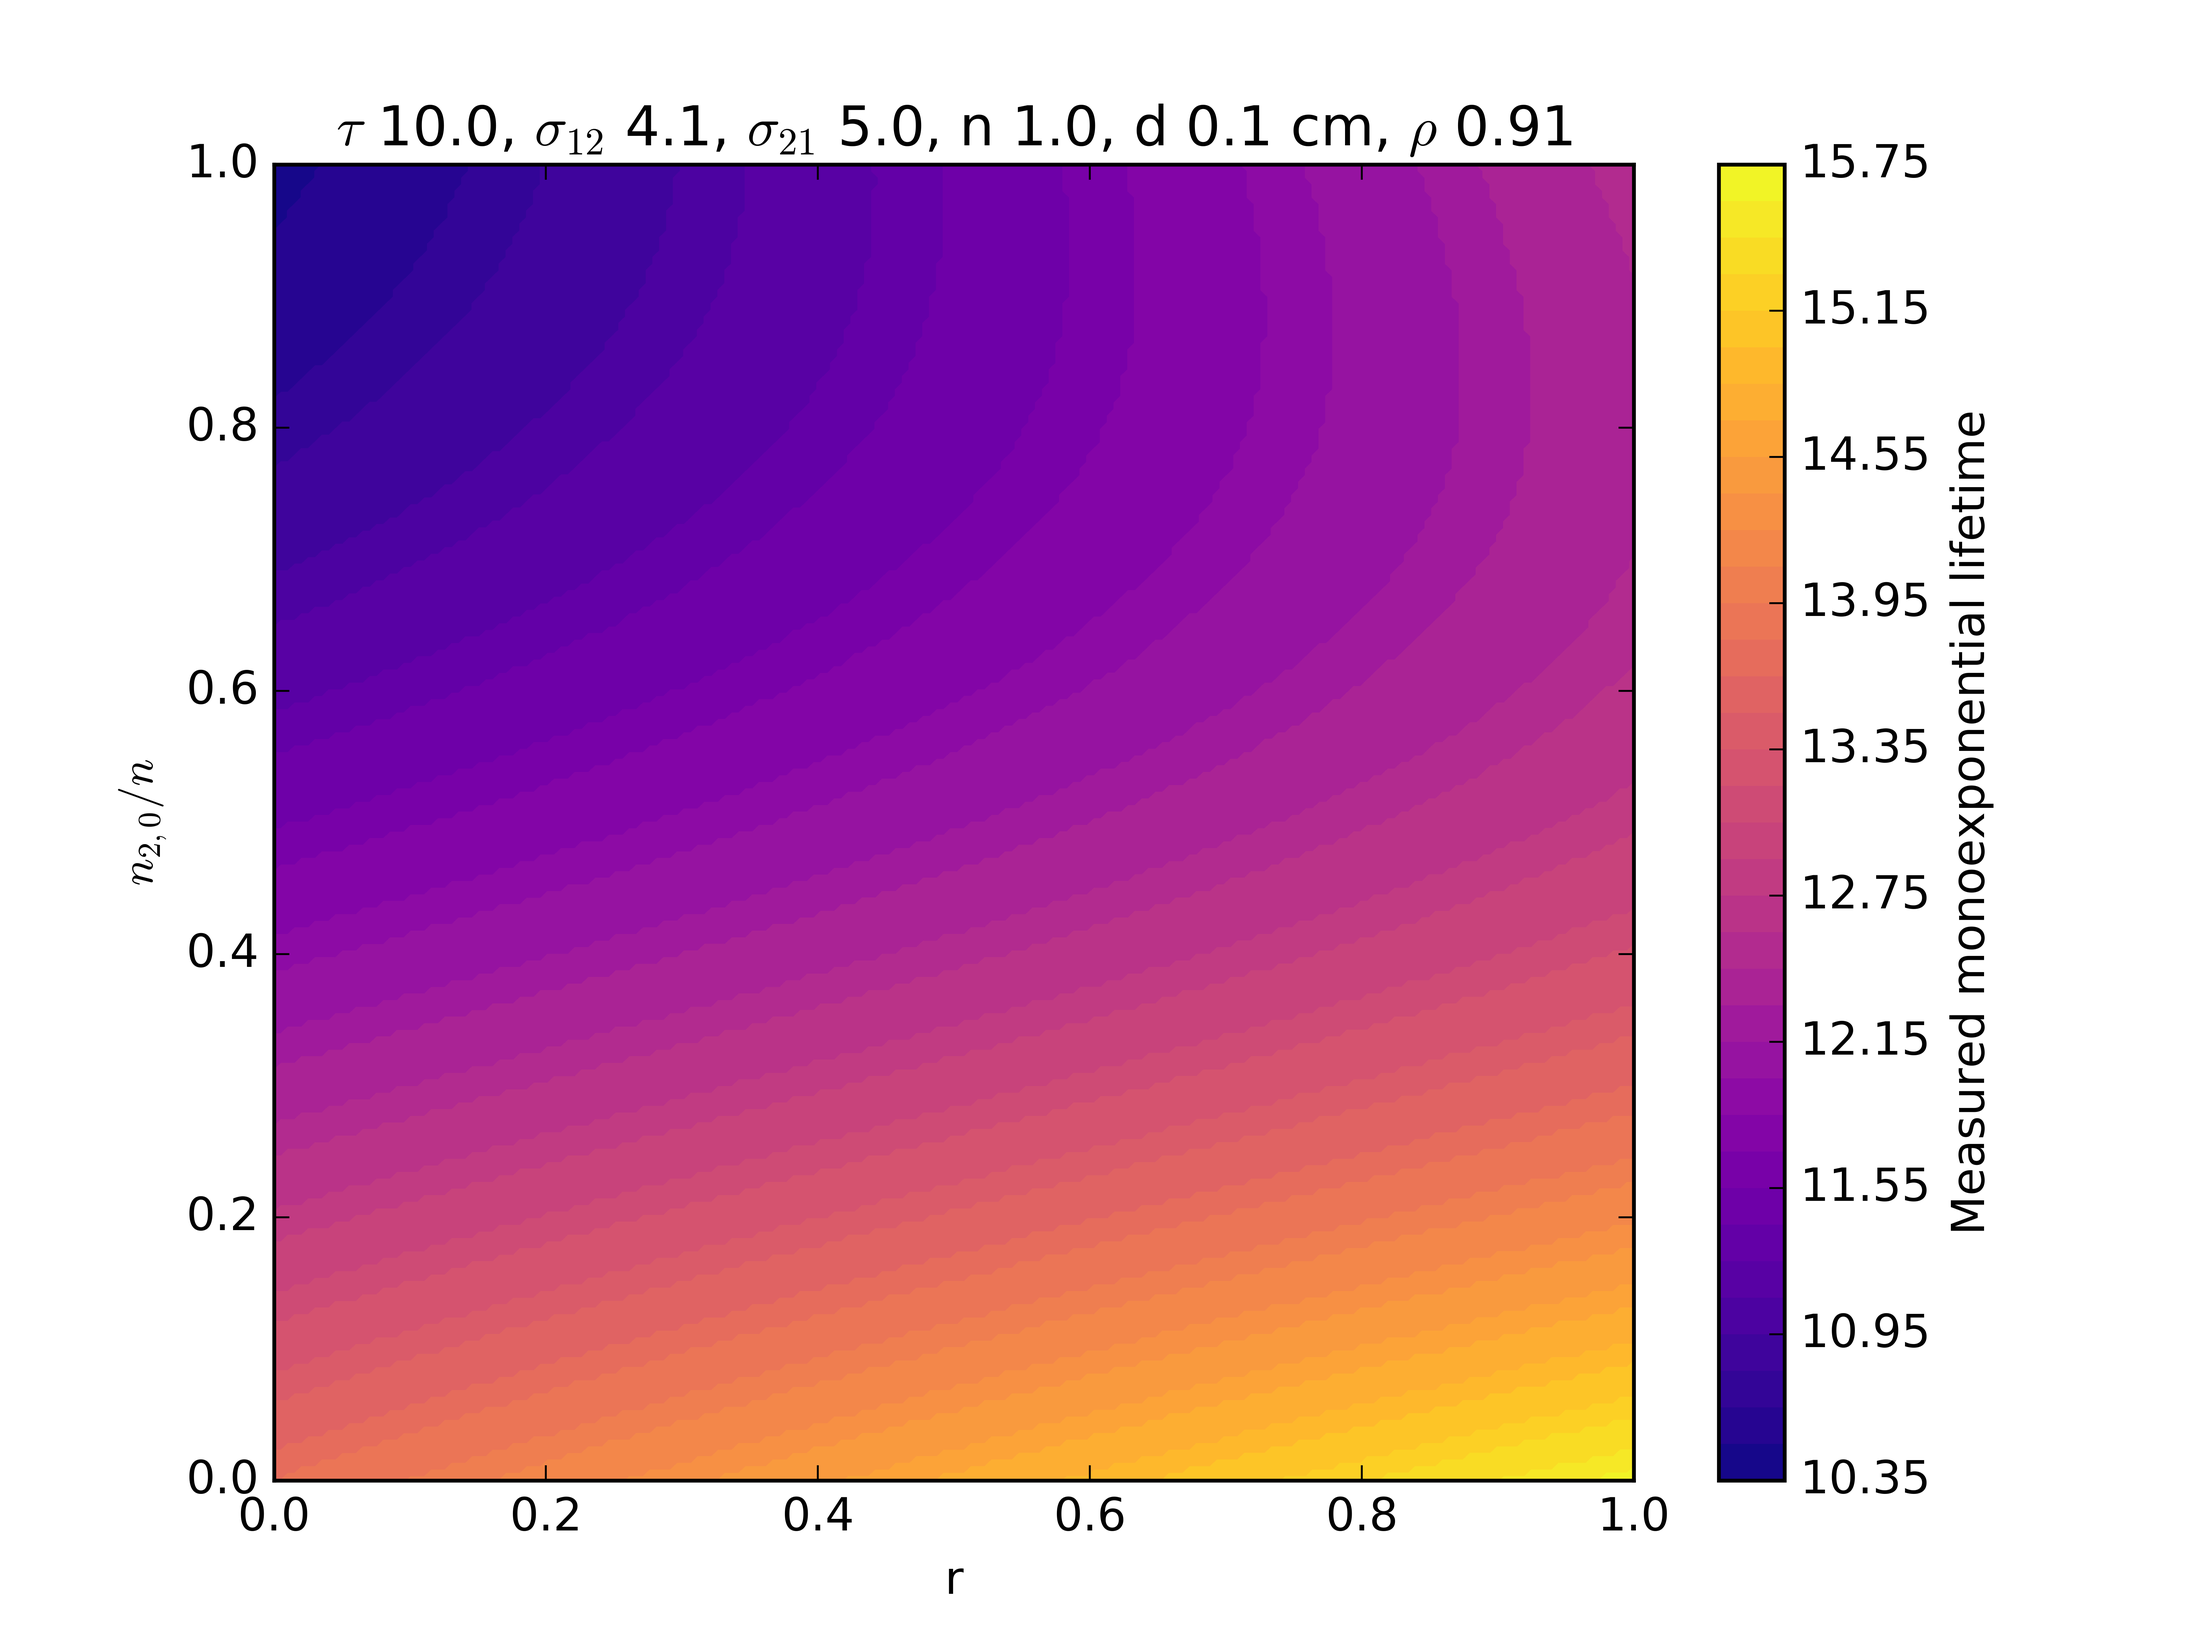
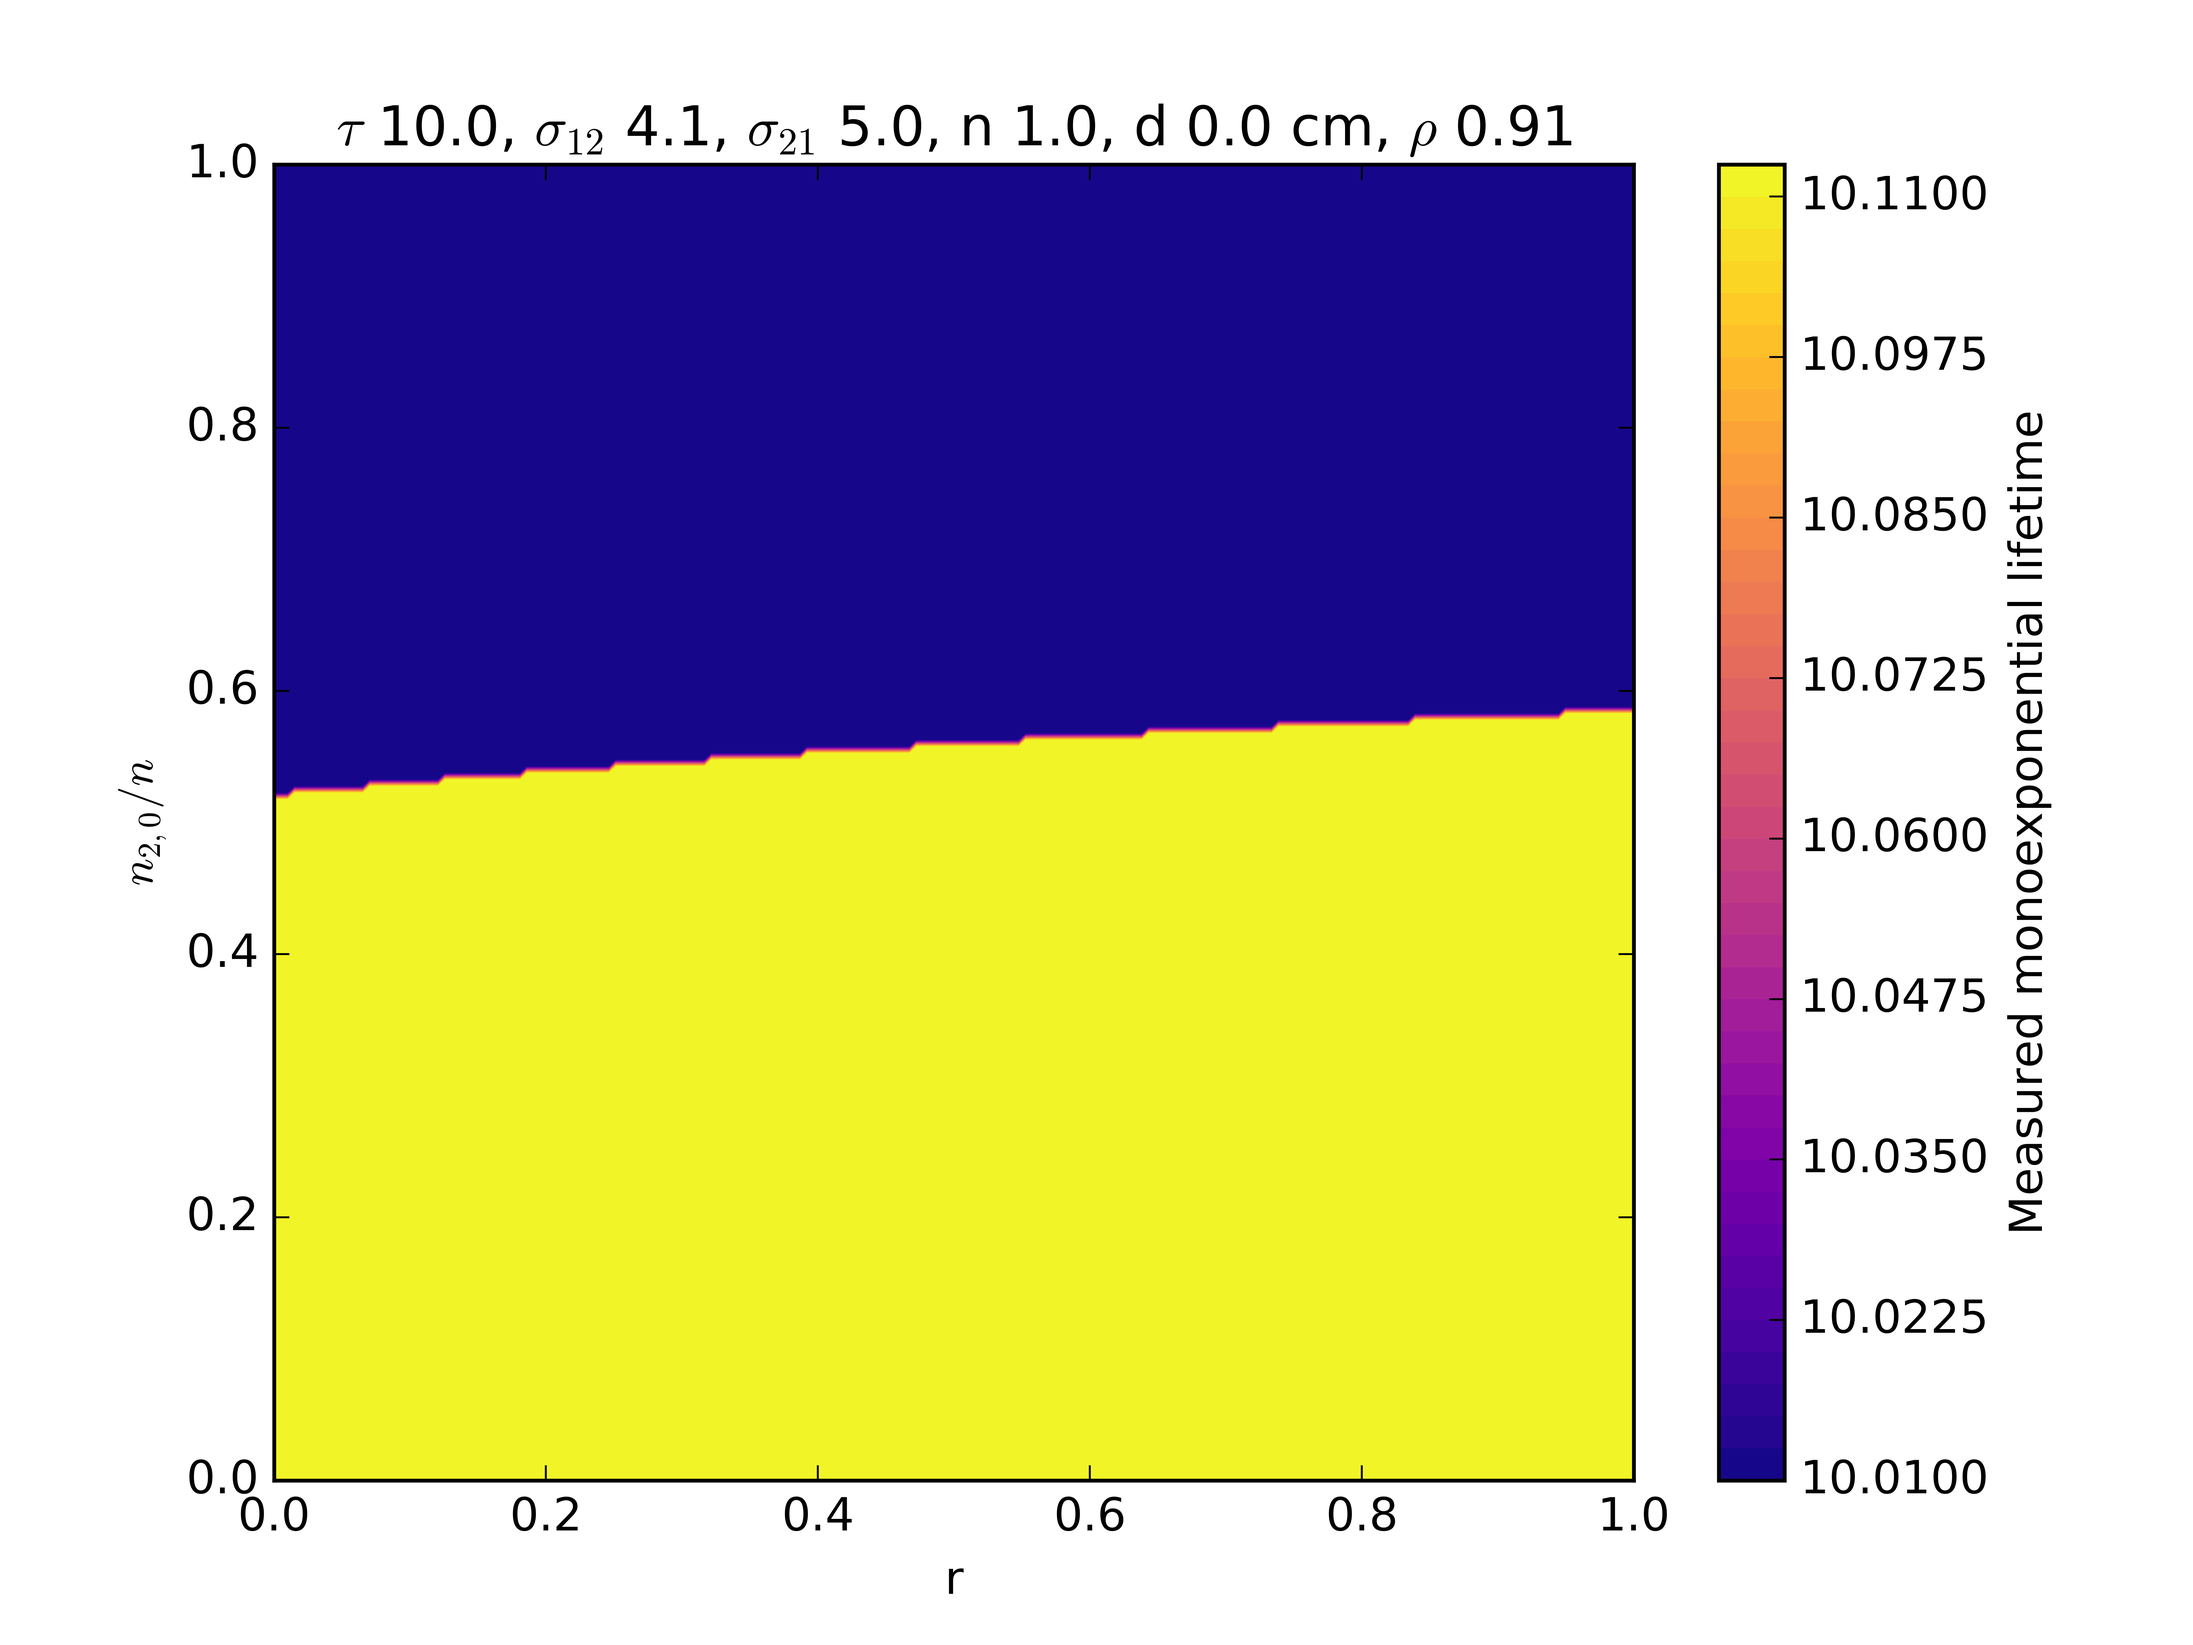
functionised quickplot

diff --git a/Fitting/Lambert-W/GeneralRegime.py b/Fitting/Lambert-W/GeneralRegime.py
@@ -24,15 +24,6 @@ def lambertDecay(t, tau, sigma_12, sigma_21, n, n20, r, rho, d):
 
 
 def decayTime(t, tau, sigma_12, sigma_21, n, n20, r, rho, d):
-    y = lambertDecay(t, tau, sigma_12, sigma_21, n, n20, r, rho, d)
-    y = y/max(y)
-    ind = np.where(y < 1/e)
-    ind = ind[0][0]
-    decay = t[ind]
-    return decay
-
-
-def decayTime2(t, tau, sigma_12, sigma_21, n, n20, r, rho, d):
     from scipy.optimize import curve_fit
 
     def model_func(t, a, b, c):
@@ -57,16 +48,16 @@ def varyFeedback(t, tau, sigma_12, sigma_21, n, n20, rho, d):
     plt.ylabel('$n_2$/max($n_2$)')
     plt.xlabel('time (ms)')
 
-    for r in [0.001, 0.5E1, 1E2]:
+    for r in [0.001, 0.5, 1]:
         y = lambertDecay(t, tau, sigma_12, sigma_21, n, n20, r, rho, d)
-        y = y/max(y)
+        # y = y/max(y)
         plt.plot(t, y, label=r)
 
     plt.title('$\\tau$ %.1f, $\\sigma_{12}$ %.1f, $\\sigma_{21}$ %.1f, n %.1f, d %.4f cm, $\\rho$ %.2f'
               % (tau, sigma_12, sigma_21, n, d, rho))
     plt.xlim(min(t), 25)
-    plt.ylim(0.01, 1)
-    plt.yscale('log')
+    # plt.ylim(0.01, 1)
+    # plt.yscale('log')
     plt.legend(loc='best', title='r')
     plt.savefig('Images/varyFeedbackLog.png', dpi=900)
     plt.show()
@@ -186,17 +177,17 @@ if __name__ == "__main__":
     t = np.linspace(0, 100, 1000)
 
     # Define material parameters:
-    rho = 0.91         # Density of Er ions (*1E21 cm^-3)
+    rho = 0.91          # Density of Er ions (*1E21 cm^-3)
     tau = 10            # Radiative decay rate
-    d = 1E-4*1000             # Thickness of slab (cm)
+    d = 1E-4*1       # Thickness of slab (cm)
     sigma_12 = 4.1      # Absorption cross-section (*1E-21 cm^2)
     sigma_21 = 5        # Emission cross-section (*1E-21 cm^2)
     n = 1               # Total number of active ions (i.e.,clustering)
 
     contourPlot(t, tau, sigma_12, sigma_21, n, rho, d)
-
-    n20 = 0.2*n         # Fraction of excited ions at t=0
-    r = 0.5             # Reflectivity of top layer
+    #
+    # n20 = 0.2*n         # Fraction of excited ions at t=0
+    # r = 0.5             # Reflectivity of top layer
     # varyFeedback(t, tau, sigma_12, sigma_21, n, n20, rho, d)
     # video(t, tau, sigma_12, sigma_21, n, n20, r, rho, d)
     # threedPlot(t, tau, sigma_12, sigma_21, n, n20, r, rho, d)
